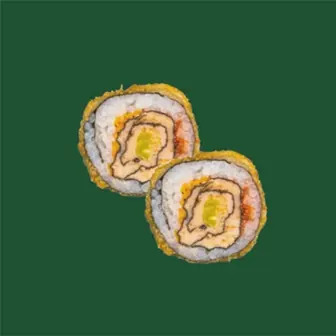
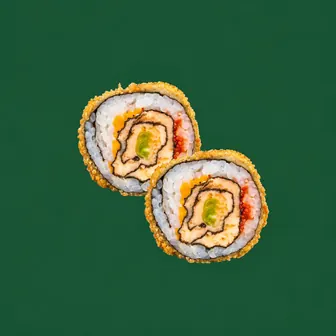
Update photo — Crunchy Dragon Eyes

Changed region(s): [[0.2083, 0.2381, 0.8036, 0.8036]]

diff --git a/src/data/dishImages.ts b/src/data/dishImages.ts
@@ -199,7 +199,7 @@ export const CLIENT_DISH_IMAGES: Record<string, string> = {
   "fc97991608": "/menu-hd-onglet24/crunchy-eby-tempura.jpg",
   "b2336232f7": "/menu-hd-onglet24/crunchy-casablanca.png",
   "b6bb8210a3": "/menu-hd-onglet24/crunchy-tiger-fry.png",
-  "e8077d2295": "/menu-hd-onglet24/crunchy-dragon-eyes.png",
+  "e8077d2295": "/menu-hd-onglet24/crunchy-dragon-eyes.jpg",
   "e3a96c288b": "/menu-hd-onglet24/crunchy-pacific.png",
   "3583d51b73": "/menu-hd-onglet24/crunchy-fry-eby-fry.jpg",
   "45bca3a281": "/menu-hd-onglet24/crunchy-fry-salmon-fry.jpg",

diff --git a/src/data/yumloMenu.ts b/src/data/yumloMenu.ts
@@ -1491,7 +1491,7 @@ export const YUMLO_MENU = [
     "description": "Saumon, poireaux, carottes, ciboulette, cheese, tobiko 6 Pièces",
     "priceMAD": "55.00",
     "currency": "MAD",
-    "image": "/menu-hd-onglet24/crunchy-dragon-eyes.png"
+    "image": "/menu-hd-onglet24/crunchy-dragon-eyes.jpg"
   },
   {
     "id": "e3a96c288b",
